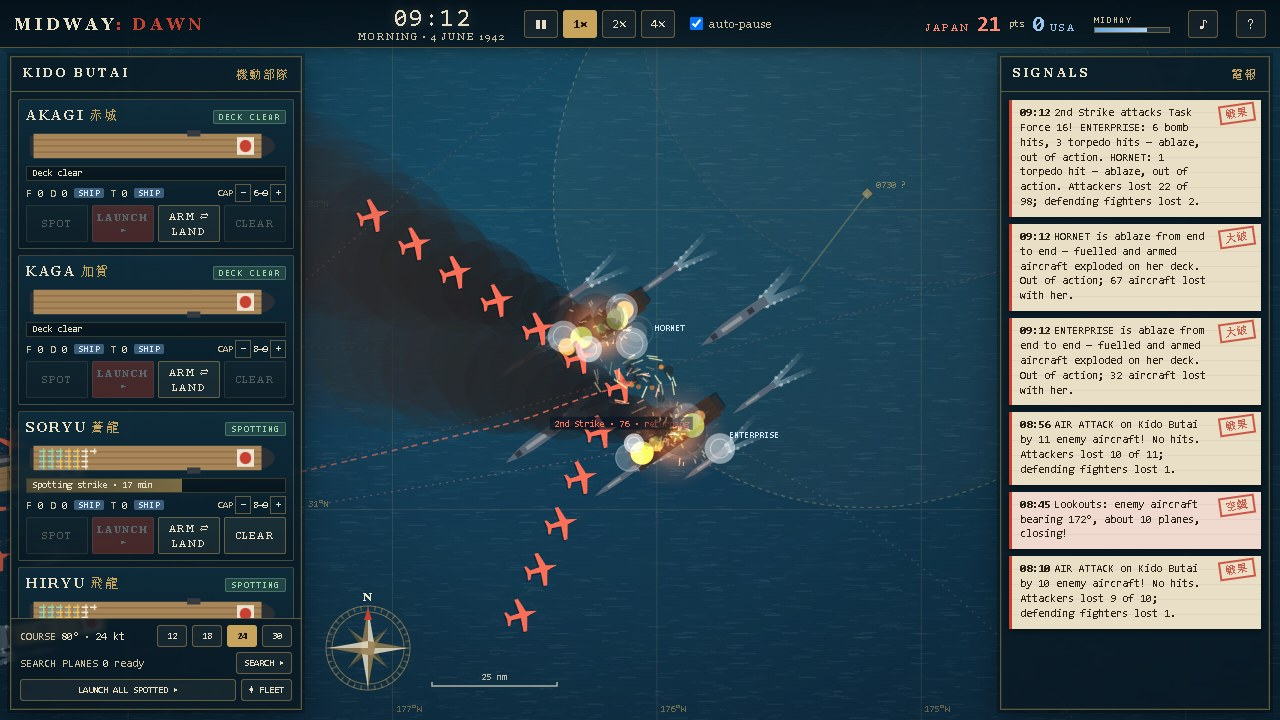
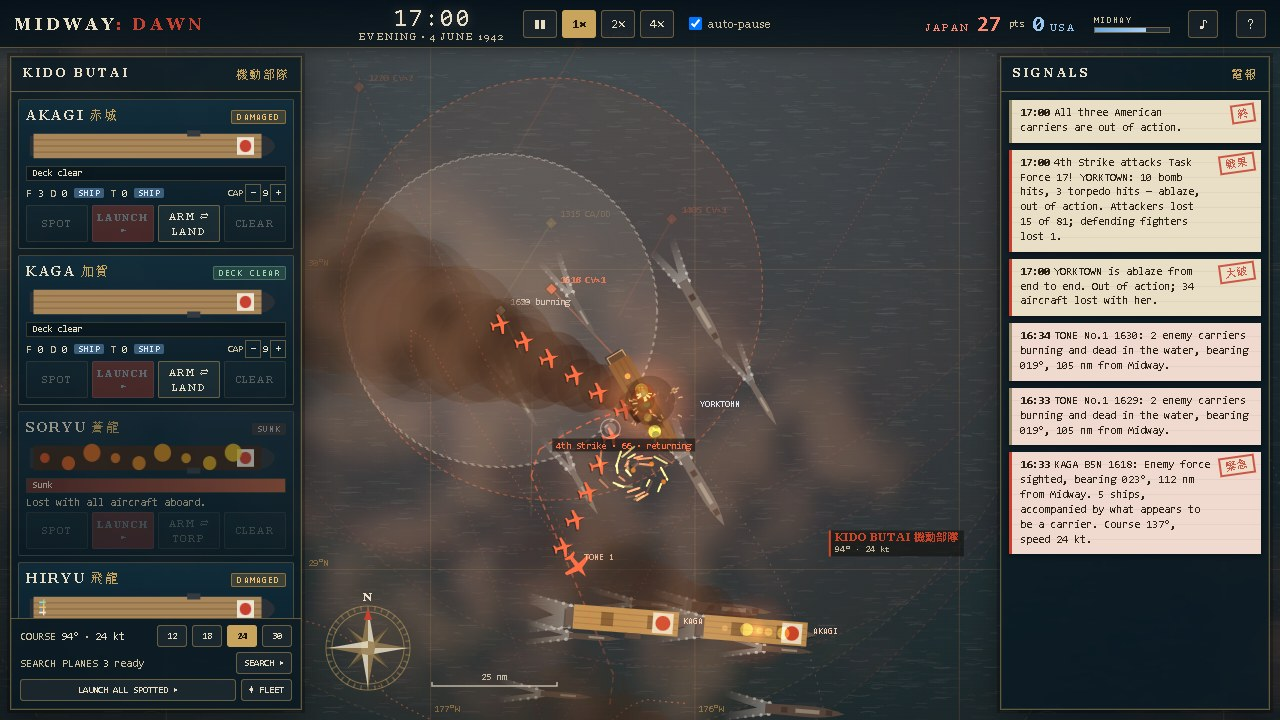
Evening cover, vivid fire and tracers; make.fun bounty URL
- cover (01-battle.jpg): Yorktown ablaze at 17:00 with the strike's track,
  HUD 27-0 and the carrier cards; picked by the showcase's own search for a
  dusk strike clear of Midway and of our fleet (seed 199)
- evening light warms the clouds gold and rose while the sea stays blue, so
  fires, tracers and the strike stand out
- burning carriers keep a scorched deck and outline; deck flames smaller;
  the air battle is drawn out toward the raid's approach, off the hulls;
  near misses fainter; formations no larger than 2.4x when zoomed
- showcase checks a moment after every step, including the battle's last
- README: links to https://make.fun/bounty/best-game-01

diff --git a/game/src/view/effects.js b/game/src/view/effects.js
@@ -43,25 +43,27 @@
       return add({ type: 'splash', x: p.x, y: p.y, t0: now, dur: 1.8, carrier: carrier || null, dx: Math.cos(a) * r, dy: Math.sin(a) * r * 0.7 });
     },
 
-    dogfight: function (p, now, intensity, falling) {
+    /** Tracers, flak and falling planes; `from` (a bearing) moves the fight out toward where the raid came from. */
+    dogfight: function (p, now, intensity, falling, from) {
+      const off = typeof from === 'number' ? { x: Math.sin((from * Math.PI) / 180) * 70, y: -Math.cos((from * Math.PI) / 180) * 70 } : { x: 0, y: 0 };
       const lines = [];
       const n = 10 + Math.min(30, intensity * 2);
       for (let i = 0; i < n; i++) {
         lines.push({ a: rnd() * TAU, r: 6 + rnd() * 34, len: 6 + rnd() * 10, start: rnd() * 0.8, spin: (rnd() - 0.5) * 3, warm: rnd() < 0.6 });
       }
-      add({ type: 'tracers', x: p.x, y: p.y, t0: now, dur: 4.5, lines: lines });
+      add({ type: 'tracers', x: p.x, y: p.y, t0: now, dur: 4.5, lines: lines, ox: off.x, oy: off.y });
       const puffs = [];
       for (let i = 0; i < 14; i++) puffs.push({ dx: (rnd() - 0.5) * 70, dy: (rnd() - 0.5) * 50, start: rnd() * 3, r: 2 + rnd() * 3 });
-      add({ type: 'flak', x: p.x, y: p.y, t0: now, dur: 5, puffs: puffs });
+      add({ type: 'flak', x: p.x, y: p.y, t0: now, dur: 5, puffs: puffs, ox: off.x * 0.5, oy: off.y * 0.5 });
       for (let i = 0; i < Math.min(8, falling); i++) {
-        add({ type: 'fall', x: p.x, y: p.y, t0: now + rnd() * 2.5, dur: 2.2, dx: (rnd() - 0.5) * 60, dy: (rnd() - 0.5) * 40, drift: (rnd() - 0.5) * 50, spin: rnd() * TAU });
+        add({ type: 'fall', x: p.x, y: p.y, ox: off.x, oy: off.y, t0: now + rnd() * 2.5, dur: 2.2, dx: (rnd() - 0.5) * 60, dy: (rnd() - 0.5) * 40, drift: (rnd() - 0.5) * 50, spin: rnd() * TAU });
       }
     },
 
     /** Turns battle events into the effects that show them. */
     fromEvent: function (e, state, now) {
       if (e.kind === 'airbattle') {
-        Effects.dogfight({ x: e.x, y: e.y }, now, (e.cap || 0) / 3 + (e.shotDown || 0), Math.ceil((e.shotDown || 0) / 3) + Math.ceil((e.capLosses || 0) / 2));
+        Effects.dogfight({ x: e.x, y: e.y }, now, (e.cap || 0) / 3 + (e.shotDown || 0), Math.ceil((e.shotDown || 0) / 3) + Math.ceil((e.capLosses || 0) / 2), e.from);
       } else if (e.kind === 'bombing') {
         let k = 0;
         let hits = 0;
@@ -103,6 +105,7 @@
         if (p < 0 || p > 1) continue;
         let s = cam.toScreen(fx);
         if (fx.carrier && shipAt && shipAt[fx.carrier]) s = { x: shipAt[fx.carrier].x + fx.dx, y: shipAt[fx.carrier].y + fx.dy };
+        if (fx.ox) s = { x: s.x + fx.ox, y: s.y + fx.oy };
         if (fx.type === 'boom') Effects.drawBoom(ctx, s, p, fx, scale);
         else if (fx.type === 'splash') Effects.drawSplash(ctx, s, p, scale);
         else if (fx.type === 'tracers') Effects.drawTracers(ctx, s, p, fx, now);
@@ -156,9 +159,9 @@
       ctx.beginPath();
       ctx.arc(s.x, s.y, (2 + p * 7) * Math.min(scale, 2), 0, TAU);
       ctx.stroke();
-      ctx.fillStyle = 'rgba(255, 255, 255,' + (0.8 * (1 - p)) + ')';
+      ctx.fillStyle = 'rgba(230, 245, 255,' + (0.45 * (1 - p)) + ')';
       ctx.beginPath();
-      ctx.arc(s.x, s.y, (1 + 3 * Math.sin(p * Math.PI)) * scale, 0, TAU);
+      ctx.arc(s.x, s.y, (1 + 2 * Math.sin(p * Math.PI)) * Math.min(scale, 2), 0, TAU);
       ctx.fill();
       ctx.restore();
     },
@@ -166,7 +169,8 @@
     drawTracers: function (ctx, s, p, fx, now) {
       ctx.save();
       ctx.globalCompositeOperation = 'lighter';
-      ctx.lineWidth = 1.3;
+      ctx.lineWidth = 2;
+      ctx.lineCap = 'round';
       for (let i = 0; i < fx.lines.length; i++) {
         const L = fx.lines[i];
         const q = (p * 1.6 + L.start) % 1;
@@ -174,7 +178,7 @@
         const a = L.a + L.spin * q;
         const x = s.x + Math.cos(a) * L.r;
         const y = s.y + Math.sin(a) * L.r * 0.7;
-        ctx.strokeStyle = L.warm ? 'rgba(255, 210, 120,' + (1 - q) + ')' : 'rgba(255, 140, 90,' + (1 - q) + ')';
+        ctx.strokeStyle = L.warm ? 'rgba(255, 236, 120,' + (1 - q) + ')' : 'rgba(255, 120, 60,' + (1 - q) + ')';
         ctx.beginPath();
         ctx.moveTo(x, y);
         ctx.lineTo(x + Math.cos(a + 1.4) * L.len, y + Math.sin(a + 1.4) * L.len);
@@ -250,7 +254,7 @@
         ctx.globalCompositeOperation = 'lighter';
         const glowR = (9 + 7 * intensity) * scale * (0.9 + 0.1 * Math.sin(now * 9 + seed));
         const g = ctx.createRadialGradient(x, y, 0, x, y, glowR);
-        g.addColorStop(0, 'rgba(255, 170, 80,' + (0.35 * intensity + 0.15) + ')');
+        g.addColorStop(0, 'rgba(255, 150, 60,' + (0.45 * intensity + 0.15) + ')');
         g.addColorStop(1, 'rgba(200, 40, 10, 0)');
         ctx.fillStyle = g;
         ctx.beginPath();
@@ -262,7 +266,7 @@
       ctx.restore();
       ctx.save();
       ctx.globalCompositeOperation = 'lighter';
-      const glowR = (5 + 4 * intensity) * scale;
+      const glowR = (3 + 3 * intensity) * Math.min(scale, 3);
       const g = ctx.createRadialGradient(x, y, 0, x, y, glowR);
       g.addColorStop(0, 'rgba(255, 190, 90,' + (0.55 * intensity + 0.2) + ')');
       g.addColorStop(0.5, 'rgba(230, 90, 30,' + (0.3 * intensity + 0.1) + ')');
@@ -278,7 +282,7 @@
         ctx.beginPath();
         const along = (i - 2) * 4 * scale;
         const hr = ((heading || 0) * Math.PI) / 180;
-        ctx.arc(x + Math.sin(hr) * along + Math.sin(i * 1.3) * 1.5 * scale, y - Math.cos(hr) * along, (1.2 + f * 1.8) * scale, 0, TAU);
+        ctx.arc(x + Math.sin(hr) * along + Math.sin(i * 1.3) * 1.5 * scale, y - Math.cos(hr) * along, (0.8 + f * 1.3) * Math.min(scale, 3), 0, TAU);
         ctx.fill();
       }
       ctx.restore();

diff --git a/game/src/app/showcase.js b/game/src/app/showcase.js
@@ -21,9 +21,10 @@
     for (let k = 0; k < tries; k++) {
       const s = MD.Sim.create({ seed: seed + k, difficulty: 'historical' });
       const mem = MD.Autopilot.create(style);
+      // Checked after every step, the last one included: the decisive strike often ends the battle.
       while (!s.over) {
-        if (pred(s)) return { seed: seed + k, t: s.t };
         MD.Sim.step(s, MD.Autopilot.orders(s, mem));
+        if (pred(s)) return { seed: seed + k, t: s.t };
       }
     }
     return null;
@@ -38,14 +39,31 @@
     return intact && scouts >= 2 && s.intel.J.some(function (r) { return r.kind === 'carriers'; });
   }
 
+  /** A carrier set ablaze in the evening light, with Japan ahead on points: the cover. */
+  function duskImpactMoment(s) {
+    if (s.t < 720) return false;
+    const sc = MD.Sim.score(s);
+    if (sc.J <= sc.A || MD.Forces.sideCarriers(s, 'J').filter(MD.Forces.fighting).length < 3) return false;
+    // Out at sea, clear of Midway, so the frame is the carriers and the strike alone.
+    for (let i = s.log.length - 1; i >= 0 && s.log[i].t === s.t; i--) {
+      const e = s.log[i];
+      if (e.kind === 'bombing' && e.attacker === 'J' && (MD.Geo.dist(s.groups[e.group], { x: 0, y: 0 }) < 60 || MD.Geo.dist(s.groups[e.group], s.groups.KB) < 45)) return false;
+    }
+    return impactMomentAny(s, 1);
+  }
+
   function impactMoment(s) {
+    return impactMomentAny(s, 2);
+  }
+
+  function impactMomentAny(s, minTargets) {
     for (let i = s.log.length - 1; i >= 0 && s.log[i].t === s.t; i--) {
       const e = s.log[i];
       if (e.kind !== 'bombing' || e.attacker !== 'J') continue;
       let fatal = 0;
       for (const id in e.tally) if (e.tally[id].before !== 'fatal' && s.carriers[id].status === 'fatal') fatal++;
       const ours = MD.Forces.sideCarriers(s, 'J').filter(MD.Forces.fighting).length;
-      if (fatal >= 1 && Object.keys(e.tally).length >= 2 && ours >= 3) return true;
+      if (fatal >= 1 && Object.keys(e.tally).length >= minTargets && ours >= (minTargets > 1 ? 3 : 2)) return true;
     }
     return false;
   }
@@ -96,7 +114,7 @@
         return;
       }
       if (n === 4) return Showcase.debrief(app, seed);
-      const found = findMoment(seed, 'aggressive', n === 2 ? strikeMoment : impactMoment, 40) || { seed: seed, t: 400 };
+      const found = (n === 3 ? findMoment(seed, 'aggressive', duskImpactMoment, 60) : null) || findMoment(seed, 'aggressive', n === 2 ? strikeMoment : impactMoment, 40) || { seed: seed, t: 400 };
       app.startBattle(found.seed, 'historical');
       document.getElementById('tutorial').classList.add('hidden');
       Showcase.until = found.t;
@@ -162,18 +180,15 @@
         else if (e.kind === 'bombing') MD.Effects.fromEvent(e, s, now - 2.6);
         else if (e.kind === 'damage') MD.Effects.fromEvent(e, s, now - 3.4);
       }
-      // A second wave of bursts still landing beside the hulls, so the frame shows the attack at its height.
-      for (const id in hit.tally) {
-        const c = s.carriers[id];
-        MD.Effects.explosion(c, now - 0.6, false, id);
-        MD.Effects.explosion(c, now - 0.9, false, id);
-      }
-      const ids = Object.keys(hit.tally);
-      for (let i = 0; i < 4; i++) MD.Effects.splash(s.carriers[ids[i % ids.length]], now - 0.3 - i * 0.2, ids[i % ids.length]);
+
+
       const burning = Object.keys(hit.tally).map(function (id) { return s.carriers[id]; }).filter(function (c) { return c.status === 'fatal'; })[0];
       const focus = burning || g;
       void focus;
-      app.camera.jump({ x: g.x + 3, y: g.y - 0.5 }, 5);
+      // Look past the target, away from our own fleet, so the burning ships sit in the middle of the chart.
+      const kb = s.groups.KB;
+      const away = MD.Geo.dist(kb, g) > 1 ? MD.Geo.polar(MD.Geo.bearing(kb, g), 4, g) : g;
+      app.camera.jump({ x: away.x + 2, y: away.y }, 5);
       MD.Cards.update();
     },
 

diff --git a/game/src/view/ships.js b/game/src/view/ships.js
@@ -94,13 +94,19 @@
       ctx.fill();
       ctx.restore();
       // Hull.
-      ctx.fillStyle = dead ? '#2a2724' : opts.side === 'J' ? '#4a4f55' : '#5a6672';
+      ctx.fillStyle = dead ? '#4a4038' : opts.side === 'J' ? '#4a4f55' : '#5a6672';
       hullPath(ctx, len, beam);
       ctx.fill();
+      if (dead) {
+        // A burning ship keeps her outline against the smoke.
+        ctx.strokeStyle = 'rgba(255, 200, 150, 0.7)';
+        ctx.lineWidth = 1.2;
+        ctx.stroke();
+      }
       // Flight deck, overhanging the hull.
       const deckTop = -len * 0.42;
       const deckLen = len * 0.86;
-      ctx.fillStyle = dead ? '#3b2a20' : opts.side === 'J' ? '#b8915d' : '#8f8b7d';
+      ctx.fillStyle = dead ? '#7a5636' : opts.side === 'J' ? '#b8915d' : '#8f8b7d';
       ctx.fillRect(-deckW / 2, deckTop, deckW, deckLen);
       // Deck planking lines and the elevators.
       ctx.strokeStyle = dead ? 'rgba(0,0,0,0.3)' : 'rgba(60, 40, 20, 0.35)';

diff --git a/game/src/view/clouds.js b/game/src/view/clouds.js
@@ -59,9 +59,11 @@
             continue;
           }
           const lit = 0.8 + 0.2 * detail;
-          d[o] = Math.min(255, 228 * lit + warm[0] * 0.12);
-          d[o + 1] = Math.min(255, 232 * lit + warm[1] * 0.08);
-          d[o + 2] = Math.min(255, 238 * lit + warm[2] * 0.05);
+          // Cloud tops take the colour of the light: white at noon, gold and rose at dawn and dusk.
+          const glow = Math.min(1, warm[3] * 4);
+          d[o] = Math.min(255, 228 * lit * (1 - glow * 0.1) + warm[0] * 0.3 * glow);
+          d[o + 1] = Math.min(255, 232 * lit * (1 - glow * 0.3) + warm[1] * 0.2 * glow);
+          d[o + 2] = Math.min(255, 238 * lit * (1 - glow * 0.45) + warm[2] * 0.15 * glow);
           d[o + 3] = Math.round(255 * Math.min(0.5, c * 0.55));
           s[o] = 2;
           s[o + 1] = 10;

diff --git a/game/src/view/sea.js b/game/src/view/sea.js
@@ -264,7 +264,8 @@
       ctx.fillStyle = MD.Palette.rgb(light.tint, Math.min(0.9, light.tint[3] * 2.2));
       ctx.fillRect(0, 0, cam.w, cam.h);
       ctx.globalCompositeOperation = 'source-over';
-      ctx.fillStyle = MD.Palette.rgb(light.tint, light.tint[3] * 0.6);
+      // A light veil only: the warmth comes from the soft-light pass, so the sea stays blue against the fires.
+      ctx.fillStyle = MD.Palette.rgb(light.tint, light.tint[3] * 0.25);
       ctx.fillRect(0, 0, cam.w, cam.h);
       const v = ctx.createRadialGradient(cam.w / 2, cam.h / 2, cam.h * 0.35, cam.w / 2, cam.h / 2, cam.w * 0.75);
       v.addColorStop(0, 'rgba(0,0,0,0)');

diff --git a/game/src/view/renderer.js b/game/src/view/renderer.js
@@ -184,7 +184,7 @@
         }
         MD.Aircraft.track(ctx, cam, f, color, 0.85);
         const n = MD.Air.count(f);
-        MD.Aircraft.formation(ctx, p.x, p.y, f.heading, n, color, now + i, scale);
+        MD.Aircraft.formation(ctx, p.x, p.y, f.heading, n, color, now + i, Math.min(scale, 2.4));
         const status = f.phase === 'holding' ? ' · circling' : f.phase === 'search' ? ' · searching' : f.phase === 'return' ? ' · returning' : '';
         MD.Aircraft.label(ctx, p.x, p.y + 16 + Math.min(12, Math.ceil(n / 6)) * 2, (f.side === 'J' ? f.name : 'ENEMY RAID') + ' · ' + n + status, color);
       }

diff --git a/game/src/view/palette.js b/game/src/view/palette.js
@@ -21,8 +21,9 @@
       [90, [230, 170, 110, 0.1], [20, 64, 84], [11, 36, 52]],
       [300, [140, 200, 255, 0.04], [18, 70, 94], [11, 40, 58]],
       [570, [150, 205, 255, 0.04], [18, 68, 92], [11, 38, 56]],
-      [760, [230, 150, 80, 0.14], [24, 56, 76], [12, 32, 48]],
-      [820, [190, 90, 120, 0.24], [26, 42, 66], [12, 22, 40]],
+      [700, [255, 170, 80, 0.1], [22, 66, 90], [12, 38, 56]],
+      [760, [255, 140, 60, 0.16], [22, 66, 92], [10, 36, 58]],
+      [820, [230, 90, 110, 0.26], [40, 48, 78], [16, 24, 46]],
       [860, [90, 60, 120, 0.32], [16, 26, 48], [8, 14, 30]],
     ],
 

diff --git a/game/src/engine/combat.js b/game/src/engine/combat.js
@@ -187,6 +187,7 @@
       f.result = parts.length ? 'hits' : 'miss';
       MD.Events.emit(state, 'airbattle', 'both', '', {
         x: g.x, y: g.y, attacker: f.side, cap: capN, shotDown: battle.shotDown + battle.escortLosses, capLosses: battle.capLosses, group: g.id,
+        from: MD.Geo.bearing(g, f.origin),
       });
       MD.Events.emit(state, 'bombing', 'both', headline + ' ' + body, {
         x: g.x, y: g.y, attacker: f.side, group: g.id, tally: bombs.tally, flight: f.id, pause: true, urgent: g.side === 'J' || parts.length > 0,

diff --git a/README.md b/README.md
@@ -1,10 +1,10 @@
 # MIDWAY: DAWN
 
-[![best-game-01](https://make.fun/badge/best-game-01.svg)](https://make.fun/c/best-game-01)
-[![rank](https://make.fun/badge/best-game-01/oli6172025-jpg/midway-dawn/rank.svg)](https://make.fun/c/best-game-01)
-[![reward](https://make.fun/badge/best-game-01/oli6172025-jpg/midway-dawn/reward.svg)](https://make.fun/c/best-game-01)
+[![best-game-01](https://make.fun/badge/best-game-01.svg)](https://make.fun/bounty/best-game-01)
+[![rank](https://make.fun/badge/best-game-01/oli6172025-jpg/midway-dawn/rank.svg)](https://make.fun/bounty/best-game-01)
+[![reward](https://make.fun/badge/best-game-01/oli6172025-jpg/midway-dawn/reward.svg)](https://make.fun/bounty/best-game-01)
 
-An entry for make.fun's **[Make the best game](https://make.fun/c/best-game-01)** bounty (best-game-01).
+An entry for make.fun's **[Make the best game](https://make.fun/bounty/best-game-01)** bounty (best-game-01).
 
 **4 June 1942, dawn. You command Kido Butai — four carriers somewhere north-west of Midway. Find the American
 carriers in the fog before they find you, and strike first.**
